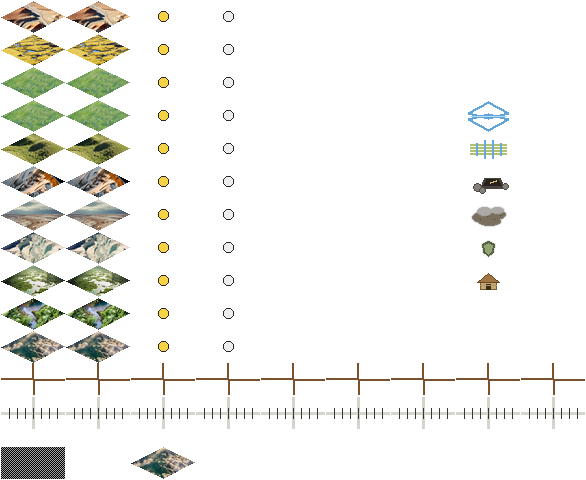
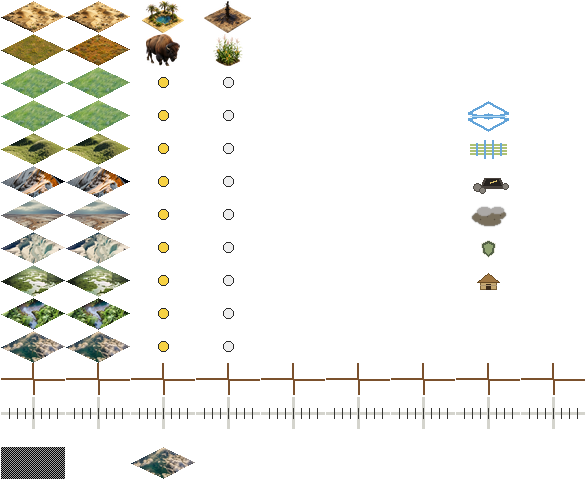
Standalone playability, Civ2 rules parity, adaptive map zoom, terrain art

Changed region(s): [[0.0, 0.0, 0.215, 0.1562], [0.2457, 0.0, 0.3072, 0.1562], [0.3379, 0.0, 0.43, 0.1562]]

diff --git a/scripts/prepare_custom_textures.py b/scripts/prepare_custom_textures.py
@@ -293,6 +293,98 @@ def clean(source: Path, destination: Path, *, unit: bool = False, flag: bool = F
     output.save(destination, "PNG", optimize=True, compress_level=9)
 
 
+TERRAIN_BASE_NAMES = {
+    "desert.png": "desert.png",
+    "desert_b.png": "desert_b.png",
+    "plains.png": "plains.png",
+    "plains_b.png": "plains_b.png",
+}
+
+# Special resources by terrain row and slot, matching the two special columns the
+# renderer reads out of TERRAIN1.
+TERRAIN_SPECIAL_NAMES = {
+    "desert_1_oasis.png": "desert_1.png",
+    "desert_2_oil.png": "desert_2.png",
+    "plains_1_buffalo.png": "plains_1.png",
+    "plains_2_wheat.png": "plains_2.png",
+}
+
+
+def is_key_colour(pixel: tuple[int, int, int]) -> bool:
+    """The vivid generation matte wherever it sits, including pockets the edge
+    flood fill can never reach -- gaps between palm fronds, under an animal."""
+    r, g, b = pixel
+    peak = max(r, b)
+    return peak > 55 and g < peak * 0.48 and min(r, b) > peak * 0.55
+
+
+def key_out_matte(source: Path, working: int) -> Image.Image:
+    with Image.open(source) as loaded:
+        image = loaded.convert("RGB")
+        image.thumbnail((working, working), Image.Resampling.LANCZOS)
+
+    background = connected_background(image, is_matte_background)
+    pixels = image.load()
+    width, height = image.size
+    for y in range(height):
+        row = y * width
+        for x in range(width):
+            if not background[row + x] and is_key_colour(pixels[x, y]):
+                background[row + x] = 1
+
+    rgba = image.convert("RGBA")
+    rgba.putalpha(Image.frombytes("L", image.size, bytes(0 if v else 255 for v in background)))
+    return rgba
+
+
+def prepare_terrain_tiles(source: Path, output: Path) -> int:
+    """Base terrain diamonds and their special-resource overlays.
+
+    Base tiles are written at 2:1 so the renderer's resize to the working tile
+    size does not distort them; specials are treated like every other overlay,
+    contained in a 300x300 box and resting on the bottom edge.
+    """
+    directory = source / "terrain"
+    if not directory.is_dir():
+        return 0
+
+    count = 0
+    for input_name, output_name in TERRAIN_BASE_NAMES.items():
+        path = directory / input_name
+        if not path.exists():
+            continue
+        tile = key_out_matte(path, 1100)
+        bounds = tile.getchannel("A").getbbox()
+        if bounds:
+            tile = tile.crop(bounds)
+        tile = tile.resize((1024, 512), Image.Resampling.LANCZOS)
+        destination = output / "Terrain" / output_name
+        destination.parent.mkdir(parents=True, exist_ok=True)
+        tile.save(destination, "PNG", optimize=True, compress_level=9)
+        count += 1
+
+    for input_name, output_name in TERRAIN_SPECIAL_NAMES.items():
+        path = directory / input_name
+        if not path.exists():
+            continue
+        sprite = key_out_matte(path, 700)
+        bounds = sprite.getchannel("A").getbbox()
+        if bounds:
+            sprite = sprite.crop(bounds)
+        sprite.thumbnail((300, 300), Image.Resampling.LANCZOS)
+        sprite = remove_hot_pink(sprite)
+        alpha = remove_small_islands(sprite.getchannel("A").point(lambda v: 0 if v < 48 else v))
+        sprite.putalpha(alpha)
+        canvas = Image.new("RGBA", (300, 300), (0, 0, 0, 0))
+        canvas.alpha_composite(sprite, ((300 - sprite.width) // 2, 300 - sprite.height))
+        destination = output / "Terrain" / "Specials" / output_name
+        destination.parent.mkdir(parents=True, exist_ok=True)
+        canvas.save(destination, "PNG", optimize=True, compress_level=9)
+        count += 1
+
+    return count
+
+
 def numbered_sources(directory: Path, prefix: str = "ChatGPT Image") -> list[Path]:
     return sorted(path for path in directory.glob("*.png") if path.name.startswith(prefix))
 
@@ -302,6 +394,7 @@ def prepare_units(source: Path, output: Path) -> int:
         clean(source / "units" / input_name, output / "Units" / output_name, unit=True)
     # Preserve the legacy singular lookup name without keeping its former
     # 1254px RGB copy.
+    clean(source / "units" / "crusaders.png", output / "Units" / "crusader.png", unit=True)
     return len(UNIT_NAMES) + 1
 
 
@@ -375,6 +468,7 @@ def main() -> None:
     if not args.source.is_dir():
         parser.error(f"source directory does not exist: {args.source}")
     counts = {
+        "terrain tiles": prepare_terrain_tiles(args.source, args.output),
         "units": prepare_units(args.source, args.output),
         "cities": prepare_cities(args.source, args.output),
         "terrain/improvements": prepare_terrain(args.source, args.output),

diff --git a/scripts/build_standalone_sheets.py b/scripts/build_standalone_sheets.py
@@ -45,6 +45,27 @@ def contain(source: Image.Image, size: tuple[int, int], padding: int = 0) -> Ima
     return result
 
 
+def terrain_source(name: str, variant: int = 1) -> Path:
+    """Base terrain art, preferring a PNG diamond over the legacy square JPEG.
+
+    Civ II keeps two interchangeable tiles per terrain so a landmass does not
+    visibly repeat; a "_b" file supplies the second one where it exists.
+    """
+    if variant == 2:
+        alternate = ART / "Terrain" / f"{name}_b.png"
+        if alternate.exists():
+            return alternate
+
+    png = ART / "Terrain" / f"{name}.png"
+    return png if png.exists() else ART / "Terrain" / f"{name}.jpg"
+
+
+def special_source(name: str, slot: int) -> Path | None:
+    """Painted art for a terrain's special resource, if it has been made yet."""
+    path = ART / "Terrain" / "Specials" / f"{name}_{slot}.png"
+    return path if path.exists() else None
+
+
 def diamond_texture(path: Path) -> Image.Image:
     with Image.open(path) as loaded:
         tile = ImageOps.fit(loaded.convert("RGB"), (64, 32), Image.Resampling.LANCZOS)
@@ -212,13 +233,21 @@ def build_terrain1() -> None:
     sheet = Image.new("RGBA", (586, 480), (0, 0, 0, 0))
     draw = ImageDraw.Draw(sheet)
     for row, name in enumerate(TERRAIN_FILES):
-        base = diamond_texture(ART / "Terrain" / f"{name}.jpg")
-        for x in (1, 66):
-            sheet.alpha_composite(base, (x, 1 + 33 * row))
+        for variant, x in enumerate((1, 66), 1):
+            sheet.alpha_composite(diamond_texture(terrain_source(name, variant)),
+                                  (x, 1 + 33 * row))
         for special, x in enumerate((131, 196), 1):
-            resource = Image.new("RGBA", (64, 32), (0, 0, 0, 0))
-            rdraw = ImageDraw.Draw(resource)
-            rdraw.ellipse((27, 10, 37, 20), fill=((246, 205, 47, 230) if special == 1 else (235, 235, 235, 230)), outline=(40, 40, 40, 255), width=1)
+            art = special_source(name, special)
+            if art is not None:
+                with Image.open(art) as loaded:
+                    resource = contain(loaded, (64, 32))
+            else:
+                # No painting for this resource yet; a clear marker still reads.
+                resource = Image.new("RGBA", (64, 32), (0, 0, 0, 0))
+                rdraw = ImageDraw.Draw(resource)
+                rdraw.ellipse((27, 10, 37, 20),
+                              fill=((246, 205, 47, 230) if special == 1 else (235, 235, 235, 230)),
+                              outline=(40, 40, 40, 255), width=1)
             sheet.alpha_composite(resource, (x, 1 + 33 * row))
 
     for column in range(9):

diff --git a/Civ2/ImageLoader/TerrainLoader.cs b/Civ2/ImageLoader/TerrainLoader.cs
@@ -388,7 +388,9 @@ namespace Civ2.ImageLoader
 
         private static string? FindFossTerrainPath(string terrainName)
         {
-            var fileName = $"{terrainName}.jpg";
+            // PNG first: the newer terrain diamonds carry their own alpha, so they
+            // do not depend on the compatibility sheet's mask to cut the corners.
+            var fileNames = new[] { $"{terrainName}.png", $"{terrainName}.jpg" };
             var roots = Settings.SearchPaths
                 .Concat([
                     Environment.CurrentDirectory,
@@ -407,10 +409,13 @@ namespace Civ2.ImageLoader
                              Path.Combine(root, "RaylibUI", "FOSSart", "Terrain")
                          })
                 {
-                    var path = Path.Combine(directory, fileName);
-                    if (File.Exists(path))
+                    foreach (var fileName in fileNames)
                     {
-                        return path;
+                        var path = Path.Combine(directory, fileName);
+                        if (File.Exists(path))
+                        {
+                            return path;
+                        }
                     }
                 }
             }
